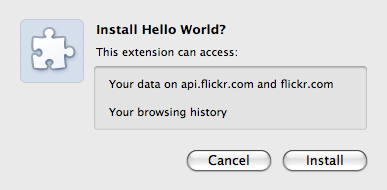
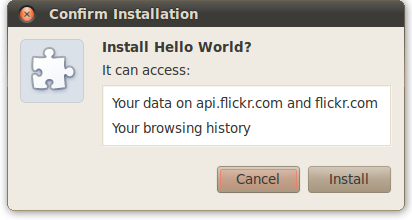
Add "management" warning, improve comments, update screenshots, plus other small changes.
BUG=none
TEST=none

Review URL: http://codereview.chromium.org/6079011

git-svn-id: http://src.chromium.org/svn/trunk/src@70521 4ff67af0-8c30-449e-8e8b-ad334ec8d88c

diff --git a/chrome/common/extensions/docs/permission_warnings.html b/chrome/common/extensions/docs/permission_warnings.html
@@ -326,9 +326,21 @@
         <div id="static"><div id="pageData-name" class="pageData">Permission Warnings</div>
 <div id="pageData-showTOC" class="pageData">true</div>
 
+<!--
+NOTE: When this doc is updated, the online help should also be updated:
+http://www.google.com/support/chrome/bin/answer.py?hl=en&answer=186213
+
+We should periodically look at 
+http://src.chromium.org/viewvc/chrome/trunk/src/chrome/app/generated_resources.grd?view=markup
+to make sure that we're covering all messages. Search for
+IDS_EXTENSION_PROMPT_WARNING
+(e.g. IDS_EXTENSION_PROMPT_WARNING_BROWSING_HISTORY).
+-->
+
 <p>
 To use most chrome.* APIs and extension capabilities,
-your extension must declare its intent in the manifest,
+your extension must declare its intent in the
+<a href="manifest.html">manifest</a>,
 often in the "permissions" field.
 Some of these declarations
 result in a warning when
@@ -352,7 +364,7 @@ Here's a typical dialog
 that a user might see when installing an extension:
 </p>
 
-<img src="images/perms-hw1.png" width="387" height="162" alt="Permission warning: 'This extension can access: Your data on api.flickr.com'">
+<img src="images/perms-hw1.png" width="410" height="193" alt="Permission warning: 'It can access: Your data on api.flickr.com'">
 
 <p>
 The warning about access to data on api.flickr.com
@@ -403,7 +415,7 @@ Clicking the Re-enable button
 brings up the following warning:
 </p>
 
-<img src="images/perms-hw2.png" width="387" height="190" alt="Permission warning: 'This extension can access: Your data on api.flickr.com and flickr.com; Your browsing history'">
+<img src="images/perms-hw2.png" width="412" height="220" alt="Permission warning: 'It can access: Your data on api.flickr.com and flickr.com; Your browsing history'">
 
 
 <h2 id="warnings"> Warnings and their triggers </h2>
@@ -414,8 +426,7 @@ results in the seemingly unrelated warning
 that the extension can access your browsing history.
 The reason for the warning is that
 although the <code>chrome.tabs</code> API
-might be used only to open new tabs
-(<a href="tabs.html#method-create"><code>chrome.tabs.create()</code></a>),
+might be used only to open new tabs,
 it can also be used to see the URL that's associated
 with every newly opened tab
 (using their <a href="tabs.html#type-Tab">Tab</a> objects).
@@ -425,13 +436,14 @@ with every newly opened tab
 <b>Note:</b>
 As of Google Chrome 7,
 you no longer need to specify the "tabs" permission
-just to call <code>chrome.tabs.create()</code>.
+just to call <code>chrome.tabs.create()</code>
+or <code>chrome.tabs.update()</code>.
 </p>
 
 <p>
 The following table lists the warning messages
 that users can see,
-along with the <a href="manifest.html">manifest</a> entries
+along with the manifest entries
 that trigger them.
 </p>
 
@@ -443,7 +455,7 @@ that trigger them.
 
 <tr>
   <td style="font-weight:bold">
-    <!-- IDS_EXTENSION_PROMPT2_WARNING_FULL_ACCESS -->
+    <!-- IDS_EXTENSION_PROMPT_WARNING_FULL_ACCESS -->
     All data on your computer and the websites you visit
   </td>
   <td>
@@ -457,7 +469,7 @@ that trigger them.
 
 <tr>
   <td style="font-weight:bold">
-    <!-- IDS_EXTENSION_PROMPT2_WARNING_BOOKMARKS -->
+    <!-- IDS_EXTENSION_PROMPT_WARNING_BOOKMARKS -->
     Your bookmarks
   </td>
   <td>
@@ -471,7 +483,7 @@ that trigger them.
 
 <tr>
   <td style="font-weight:bold">
-    <!-- IDS_EXTENSION_PROMPT2_WARNING_BROWSING_HISTORY -->
+    <!-- IDS_EXTENSION_PROMPT_WARNING_BROWSING_HISTORY -->
     Your browsing history
   </td>
   <td>
@@ -498,7 +510,7 @@ that trigger them.
 
 <tr>
   <td style="font-weight:bold">
-    <!-- IDS_EXTENSION_PROMPT2_WARNING_ALL_HOSTS -->
+    <!-- IDS_EXTENSION_PROMPT_WARNING_ALL_HOSTS -->
     Your data on all websites
   </td>
   <td>
@@ -531,8 +543,8 @@ that trigger them.
 </tr>
 <tr>
   <td style="font-weight:bold">
-    <!-- IDS_EXTENSION_PROMPT2_WARNING_?_HOST -->
-    <!-- IDS_EXTENSION_PROMPT2_WARNING_4_OR_MORE_HOSTS -->
+    <!-- IDS_EXTENSION_PROMPT_WARNING_?_HOST -->
+    <!-- IDS_EXTENSION_PROMPT_WARNING_4_OR_MORE_HOSTS -->
     Your data on <em>{list of websites}</em>
   </td>
   <td>
@@ -565,7 +577,29 @@ that trigger them.
 
 <tr>
   <td style="font-weight:bold">
-    <!-- IDS_EXTENSION_PROMPT2_WARNING_GEOLOCATION -->
+    <!-- IDS_EXTENSION_PROMPT_WARNING_MANAGEMENT -->
+    Your list of installed apps, extensions, and themes
+    <br>
+    <span style="font-weight:normal; font-style:italic">or</span>
+    <br>
+    Manage themes, extensions, and apps
+
+    <!-- PENDING: remove "Manage...apps" alternative message
+    once the fix is out on stable channel -->
+    <!-- See http://crbug.com/67859 -->
+  </td>
+  <td>
+    "management" permission
+  </td>
+  <td>
+    The "management" permission is required by the
+    <a href="management.html"><code>chrome.management</code></a> module.
+  </td>
+</tr>
+
+<tr>
+  <td style="font-weight:bold">
+    <!-- IDS_EXTENSION_PROMPT_WARNING_GEOLOCATION -->
     Your physical location
   </td>
   <td>

diff --git a/chrome/common/extensions/docs/static/permission_warnings.html b/chrome/common/extensions/docs/static/permission_warnings.html
@@ -1,9 +1,21 @@
 <div id="pageData-name" class="pageData">Permission Warnings</div>
 <div id="pageData-showTOC" class="pageData">true</div>
 
+<!--
+NOTE: When this doc is updated, the online help should also be updated:
+http://www.google.com/support/chrome/bin/answer.py?hl=en&answer=186213
+
+We should periodically look at 
+http://src.chromium.org/viewvc/chrome/trunk/src/chrome/app/generated_resources.grd?view=markup
+to make sure that we're covering all messages. Search for
+IDS_EXTENSION_PROMPT_WARNING
+(e.g. IDS_EXTENSION_PROMPT_WARNING_BROWSING_HISTORY).
+-->
+
 <p>
 To use most chrome.* APIs and extension capabilities,
-your extension must declare its intent in the manifest,
+your extension must declare its intent in the
+<a href="manifest.html">manifest</a>,
 often in the "permissions" field.
 Some of these declarations
 result in a warning when
@@ -28,8 +40,8 @@ that a user might see when installing an extension:
 </p>
 
 <img src="images/perms-hw1.png"
-  width="387" height="162"
-  alt="Permission warning: 'This extension can access: Your data on api.flickr.com'"
+  width="410" height="193"
+  alt="Permission warning: 'It can access: Your data on api.flickr.com'"
   />
 
 <p>
@@ -87,8 +99,8 @@ brings up the following warning:
 </p>
 
 <img src="images/perms-hw2.png"
-  width="387" height="190"
-  alt="Permission warning: 'This extension can access: Your data on api.flickr.com and flickr.com; Your browsing history'"
+  width="412" height="220"
+  alt="Permission warning: 'It can access: Your data on api.flickr.com and flickr.com; Your browsing history'"
   />
 
 
@@ -100,8 +112,7 @@ results in the seemingly unrelated warning
 that the extension can access your browsing history.
 The reason for the warning is that
 although the <code>chrome.tabs</code> API
-might be used only to open new tabs
-(<a href="tabs.html#method-create"><code>chrome.tabs.create()</code></a>),
+might be used only to open new tabs,
 it can also be used to see the URL that's associated
 with every newly opened tab
 (using their <a href="tabs.html#type-Tab">Tab</a> objects).
@@ -111,13 +122,14 @@ with every newly opened tab
 <b>Note:</b>
 As of Google Chrome 7,
 you no longer need to specify the "tabs" permission
-just to call <code>chrome.tabs.create()</code>.
+just to call <code>chrome.tabs.create()</code>
+or <code>chrome.tabs.update()</code>.
 </p>
 
 <p>
 The following table lists the warning messages
 that users can see,
-along with the <a href="manifest.html">manifest</a> entries
+along with the manifest entries
 that trigger them.
 </p>
 
@@ -129,7 +141,7 @@ that trigger them.
 
 <tr>
   <td style="font-weight:bold">
-    <!-- IDS_EXTENSION_PROMPT2_WARNING_FULL_ACCESS -->
+    <!-- IDS_EXTENSION_PROMPT_WARNING_FULL_ACCESS -->
     All data on your computer and the websites you visit
   </td>
   <td>
@@ -143,7 +155,7 @@ that trigger them.
 
 <tr>
   <td style="font-weight:bold">
-    <!-- IDS_EXTENSION_PROMPT2_WARNING_BOOKMARKS -->
+    <!-- IDS_EXTENSION_PROMPT_WARNING_BOOKMARKS -->
     Your bookmarks
   </td>
   <td>
@@ -157,7 +169,7 @@ that trigger them.
 
 <tr>
   <td style="font-weight:bold">
-    <!-- IDS_EXTENSION_PROMPT2_WARNING_BROWSING_HISTORY -->
+    <!-- IDS_EXTENSION_PROMPT_WARNING_BROWSING_HISTORY -->
     Your browsing history
   </td>
   <td>
@@ -184,7 +196,7 @@ that trigger them.
 
 <tr>
   <td style="font-weight:bold">
-    <!-- IDS_EXTENSION_PROMPT2_WARNING_ALL_HOSTS -->
+    <!-- IDS_EXTENSION_PROMPT_WARNING_ALL_HOSTS -->
     Your data on all websites
   </td>
   <td>
@@ -217,8 +229,8 @@ that trigger them.
 </tr>
 <tr>
   <td style="font-weight:bold">
-    <!-- IDS_EXTENSION_PROMPT2_WARNING_?_HOST -->
-    <!-- IDS_EXTENSION_PROMPT2_WARNING_4_OR_MORE_HOSTS -->
+    <!-- IDS_EXTENSION_PROMPT_WARNING_?_HOST -->
+    <!-- IDS_EXTENSION_PROMPT_WARNING_4_OR_MORE_HOSTS -->
     Your data on <em>{list of websites}</em>
   </td>
   <td>
@@ -251,7 +263,29 @@ that trigger them.
 
 <tr>
   <td style="font-weight:bold">
-    <!-- IDS_EXTENSION_PROMPT2_WARNING_GEOLOCATION -->
+    <!-- IDS_EXTENSION_PROMPT_WARNING_MANAGEMENT -->
+    Your list of installed apps, extensions, and themes
+    <br />
+    <span style="font-weight:normal; font-style:italic">or</span>
+    <br />
+    Manage themes, extensions, and apps
+
+    <!-- PENDING: remove "Manage...apps" alternative message
+    once the fix is out on stable channel -->
+    <!-- See http://crbug.com/67859 -->
+  </td>
+  <td>
+    "management" permission
+  </td>
+  <td>
+    The "management" permission is required by the
+    <a href="management.html"><code>chrome.management</code></a> module.
+  </td>
+</tr>
+
+<tr>
+  <td style="font-weight:bold">
+    <!-- IDS_EXTENSION_PROMPT_WARNING_GEOLOCATION -->
     Your physical location
   </td>
   <td>
